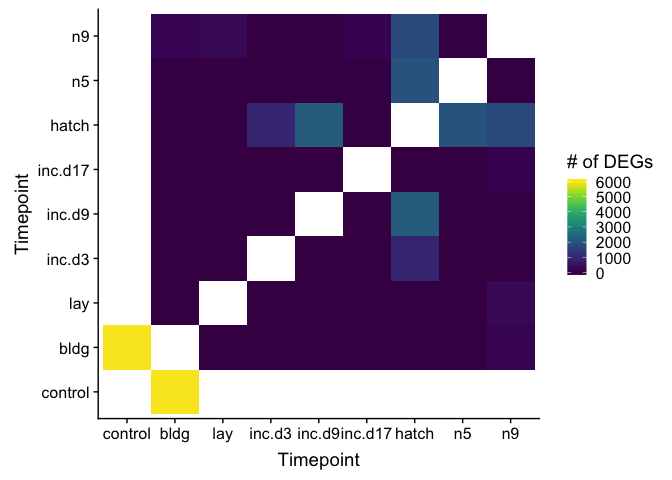
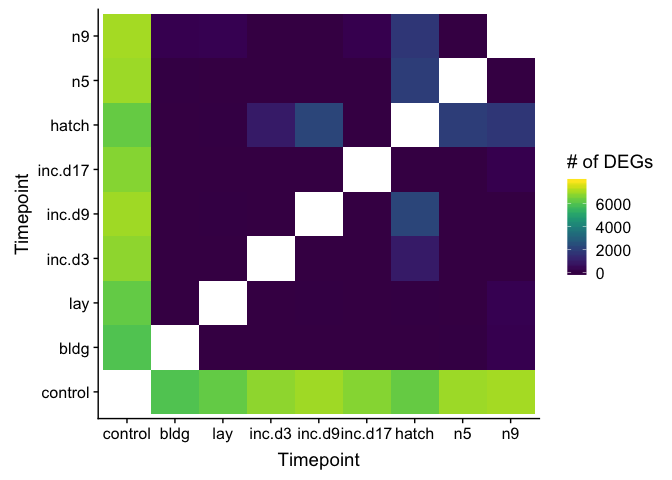
more DEGS

Changed region(s): [[0.1562, 0.0312, 0.8125, 0.875], [0.875, 0.3438, 0.9375, 0.5625]]

diff --git a/analysis/03_DESeq2_pit.md b/analysis/03_DESeq2_pit.md
@@ -464,7 +464,7 @@ NA
     ggplot(dat, aes(V1, V2)) +
       geom_tile(aes(fill = V3)) +
       scale_fill_viridis(na.value="#FFFFFF00", 
-                         limits = c(0,6000)) + 
+                         limits = c(0,7914)) + 
       xlab("Timepoint") + ylab("Timepoint") +
       labs(fill = "# of DEGs")
 
@@ -1099,7 +1099,7 @@ NA
     ggplot(dat, aes(V1, V2)) +
       geom_tile(aes(fill = V3)) +
       scale_fill_viridis(na.value="#FFFFFF00",
-                         limits = c(0,6000)) + 
+                         limits = c(0,7914)) + 
       xlab("Timepoint") + ylab("Timepoint") +
       labs(fill = "# of DEGs")
 
